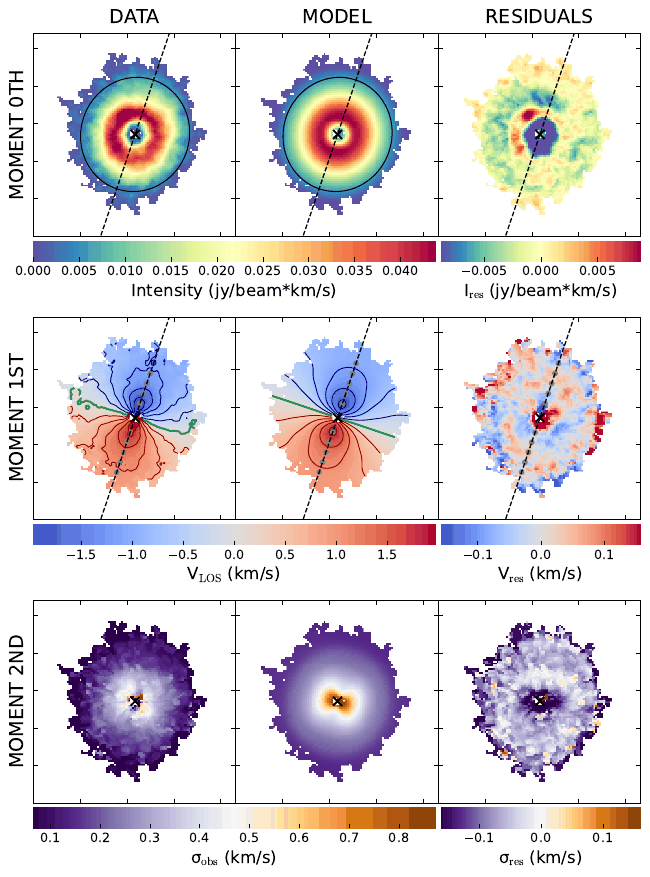
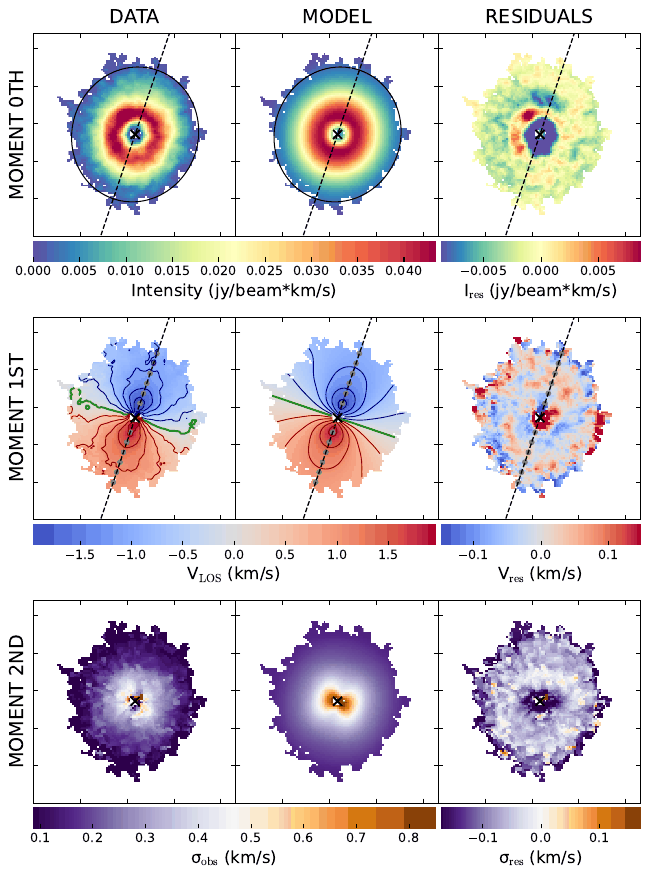
HD 142527 example: six rings, and the mass of the central stars
RADII out to 2.90 arcsec (a sixth ring): the page, the figures and the run time (52 minutes on 16
cores) from the new run. New section "The mass of the central stars": M = V^2 R / G from the
posterior samples at the Gaia distance (159.3 pc), 3.37 Msun and M sin^2 i = 0.471 Msun, against
the 2.1-2.4 Msun of the stars at an inclination of 26-28 deg. The snippet is also in the notebook.

diff --git a/docs/examples/hd142527.md b/docs/examples/hd142527.md
@@ -41,7 +41,7 @@ BBarolo -p HD142527_3DFIT_BAY.par
 ```python
 from bbarolo import FitMod3D
 
-f = FitMod3D("HD142527_13CO.fits", method="bayesian", radii=[0.65, 1.10, 1.55, 2.00, 2.45])
+f = FitMod3D("HD142527_13CO.fits", method="bayesian", radii=[0.65, 1.10, 1.55, 2.00, 2.45, 2.90])
 
 # Parameters can be set or changed after the constructor: update() returns the task
 f.update(specres=0.425,
@@ -64,20 +64,20 @@ res.write()                 # the files of the command line, in output/hd142527/
 :::
 ::::
 
-On our server, with 16 cores (16 processes for the sampler), the run takes **41 minutes**: 40.5 minutes of
-sampling, with 393 000 likelihoods of a cube of 124 000 voxels (the mask dilated by one beam). The time grows with
-the number of free parameters (18 here) and of voxels. The sampler is random, so the numbers below change slightly
+On our server, with 16 cores (16 processes for the sampler), the run takes **52 minutes**: 51.7 minutes of
+sampling, with 457 000 likelihoods of a cube of 124 000 voxels (the mask dilated by one beam). The time grows with
+the number of free parameters (20 here) and of voxels. The sampler is random, so the numbers below change slightly
 from run to run.
 
 ## The setup
 
-- **Rings.** {ref}`RADII <par-3dfit-radii>` gives five rings from 0.65 to 2.45 arcsec, 0.45 arcsec apart (about
+- **Rings.** {ref}`RADII <par-3dfit-radii>` gives six rings from 0.65 to 2.90 arcsec, 0.45 arcsec apart (about
   one beam). Nothing else about the rings is given: the centre (pixel 63.2, 63.5), the systemic velocity
   (3.7 km/s), the inclination (30°) and the position angle (162°) are first estimated from the data, and are the
   starting point and the centre of the default priors.
 - **Free parameters.** VROT and VDISP in each ring; one position angle, inclination, centre, systemic velocity
   and scale height for the whole disk (`_SINGLE`); the outer edge of the gas (`RADMAX`) and a fractional error of
-  the model (`FRACERR`): 18 parameters ({ref}`FREE <par-3dfit-free>`).
+  the model (`FRACERR`): 20 parameters ({ref}`FREE <par-3dfit-free>`).
 - **Thickness.** The CO emission of a protoplanetary disk comes from layers above and below the midplane, which
   flare outwards. The model of BBarolo is a layer symmetric about the plane, with a constant scale height: Z0 free
   (between 0 and one beam, the default prior) lets it be thick, as an approximation of the emitting surfaces.
@@ -95,30 +95,30 @@ from run to run.
 
 | Parameter | Median and 68% interval |
 |---|---|
-| VROT, 0.65 to 2.45 arcsec | 6.17 (−0.29, +0.35), 4.91 (−0.23, +0.28), 3.78 (−0.18, +0.22), 3.51 (−0.17, +0.20), 3.02 (−0.15, +0.18) km/s |
-| VDISP, 0.65 to 2.45 arcsec | 0.40, 0.27, 0.22, 0.21, 0.14 km/s (± 0.01–0.03) |
-| INC | 19.1° (−1.1, +1.0) |
+| VROT, 0.65 to 2.90 arcsec | 5.45 (−0.19, +0.22), 4.31 (−0.15, +0.17), 3.36 (−0.12, +0.13), 3.05 (−0.11, +0.13), 2.73 (−0.10, +0.12), 2.55 (−0.10, +0.12) km/s |
+| VDISP, 0.65 to 2.90 arcsec | 0.39, 0.27, 0.23, 0.19, 0.17, 0.15 km/s (± 0.01–0.03) |
+| INC | 21.9° (−0.9, +0.8) |
 | PA | 161.3° ± 0.2° |
-| VSYS | 3.737 ± 0.003 km/s |
-| Z0 | 0.14 (−0.05, +0.06) arcsec |
-| RADMAX | 2.674 arcsec, at the upper limit of its prior |
-| FRACERR | 0.18 ± 0.01 |
+| VSYS | 3.736 ± 0.003 km/s |
+| Z0 | 0.09 (−0.05, +0.06) arcsec |
+| RADMAX | 3.120 arcsec, at the upper limit of its prior |
+| FRACERR | 0.17 ± 0.01 |
 
-The rotation velocity falls with radius as $R^{-1/2}$ within the errors (6.17 km/s × (0.65/2.45)$^{1/2}$ = 3.18 km/s,
-against 3.02 measured): the Keplerian rotation of a disk around a central mass. The dispersion, 0.1 to 0.4 km/s,
-is a few channels at most. The reduced χ² is 1.63 without the model error and 1.20 with it.
+The rotation velocity falls with radius as $R^{-1/2}$ within the errors (5.45 km/s × (0.65/2.90)$^{1/2}$ = 2.58 km/s,
+against 2.55 measured): the Keplerian rotation of a disk around a central mass (see
+[below](#the-mass-of-the-central-stars)). The dispersion, 0.15 to 0.4 km/s, is a few channels at most. The reduced
+χ² is 1.51 without the model error and 1.10 with it.
 
 At this inclination the data measure the projected velocity $V_\mathrm{rot}\sin i$ much better than $V_\mathrm{rot}$:
-VROT of every ring is anti-correlated with INC (correlation coefficient −0.97, the narrow diagonal bands of the
-corner plot), and $V_\mathrm{rot}\sin i$ is 2.02 ± 0.03 km/s in the first ring, an error of about 1%, against 5% for
-VROT. The rotation velocities, and a dynamical mass from them, are only as good as the inclination, here
+VROT of every ring is anti-correlated with INC (correlation coefficients −0.86 to −0.97, the narrow diagonal bands
+of the corner plot), and $V_\mathrm{rot}\sin i$ is 2.04 ± 0.03 km/s in the first ring, an error of about 1%, against
+4% for VROT. The rotation velocities, and a dynamical mass from them, are only as good as the inclination, here
 constrained by the shape of the disk in a model with a single thick layer.
 
-RADMAX is at the upper limit of its prior, the outer edge of the last ring: the emission extends beyond 2.67 arcsec
-(to about 3 arcsec in the position–velocity diagram), so the edge of the gas disk is not measured; to measure it, add
-rings beyond. In the centre, the total intensity of the data has a hole, the cavity of the disk, which the model
-reproduces only in part: the first ring is at 0.65 arcsec, and the residuals are negative at the edge of the
-cavity, where the model has more emission than the data.
+RADMAX is at the upper limit of its prior, the outer edge of the last ring (3.125 arcsec); the emission reaches
+about 3 arcsec in the position–velocity diagram. In the centre, the total intensity of the data has a hole, the
+cavity of the disk, which the model reproduces only in part: the first ring is at 0.65 arcsec, and the residuals are
+negative at the edge of the cavity, where the model has more emission than the data.
 
 ```{figure} /figures/examples/hd142527_parameters.png
 :alt: Rotation velocity, dispersion, geometry and surface density of the rings of HD 142527
@@ -159,9 +159,44 @@ Channel maps of the data (blue) and of the model (red) (`_chanmaps_none.pdf`).
 ```{figure} /figures/examples/hd142527_corner.png
 :alt: Corner plot of the posterior of the fit of HD 142527
 
-The corner plot of the posterior (`_corner.pdf`): the one- and two-dimensional marginal distributions of the 18
+The corner plot of the posterior (`_corner.pdf`): the one- and two-dimensional marginal distributions of the 20
 free parameters, with the 16th, 50th and 84th percentiles.
 ```
+
+## The mass of the central stars
+
+In a Keplerian disk the rotation velocity at radius $R$ is $V_\mathrm{rot} = \sqrt{GM/R}$, where $M$ is the mass
+inside the ring, as if it were a point at the centre: here the two stars in the cavity, HD 142527 A
+(2.0 ± 0.3 M☉, Mendigutía et al. 2014) and its M-dwarf companion HD 142527 B (0.1 to 0.4 M☉, Lacour et al. 2016).
+At the distance of HD 142527, 159.3 ± 0.7 pc (Gaia EDR3), one arcsec is 159.3 au. Each sample of the posterior
+gives the mass $V_\mathrm{rot}^2 R/G$ in every ring; their mean over the rings is the mass of that sample, and the
+samples give the posterior of the mass. After the fit of the Python tab:
+
+```python
+import numpy as np
+
+G = 887.13                                  # the gravitational constant in (km/s)^2 au / Msun
+R = np.array([0.65, 1.10, 1.55, 2.00, 2.45, 2.90]) * 159.3   # the radii in au, at 159.3 pc
+s, names = res.fitter.samples_equal, res.fitter.freepar_names   # the posterior samples (equal weights)
+vrot = s[:, [names.index(f"vrot{i + 1}") for i in range(len(R))]]
+inc = np.radians(s[:, names.index("inc")])
+M = (vrot ** 2 * R).mean(axis=1) / G        # the mass of each sample (Msun)
+print(np.percentile(M, [16, 50, 84]))                       # M
+print(np.percentile(M * np.sin(inc) ** 2, [16, 50, 84]))    # M sin^2 i
+```
+
+The mass is $M$ = 3.37 (−0.22, +0.27) M☉, and $M\sin^2 i$ = 0.471 ± 0.004 M☉. Ring by ring, $M\sin^2 i$ goes from
+0.44 to 0.51 M☉, more than its errors (2 to 4%): the rotation is close to Keplerian, but not exactly (the logarithmic
+slope of the rotation curve is −0.52 ± 0.01, against −0.5), and the mean over the rings averages the differences.
+
+The data measure $M\sin^2 i$ to 1%, and $M$ only as well as the inclination: $M \propto 1/\sin^2 i$, and nearly
+all the error of $M$ is that of INC. 3.4 M☉ is more than the mass of the two stars, about 2.1 to 2.4 M☉, and than
+the 2.4 M☉ of Boehler et al. (2017), from the Keplerian rotation of ¹³CO at an inclination of about 27° (and a
+distance of 156 pc). The difference is in the inclination: with $M\sin^2 i$ = 0.471 M☉, these masses need an
+inclination of 26° to 28°, against the 21.9° ± 0.9° of the fit, measured from the shape of the disk with a single
+thick layer symmetric about the midplane, an approximation of the two flared surfaces that emit the ¹³CO. To get
+the mass at another inclination, measured otherwise (for instance from the shape of the dust ring), fix INC or give
+it a narrow prior. The mass is also proportional to the distance (an error of 0.4% here).
 
 ## References
 
@@ -169,4 +204,10 @@ free parameters, with the 16th, 50th and 84th percentiles.
   [CO gas inside the protoplanetary disk cavity in HD 142527: disk structure from ALMA](https://ui.adsabs.harvard.edu/abs/2015ApJ...798...85P).
 - Boehler, Y., et al. 2017, ApJ, 840, 60:
   [A close-up view of the young circumbinary disk HD 142527](https://ui.adsabs.harvard.edu/abs/2017ApJ...840...60B).
+- Mendigutía, I., et al. 2014, ApJ, 790, 21:
+  [Stellar parameters and accretion rate of the transition disk star HD 142527 from X-shooter](https://ui.adsabs.harvard.edu/abs/2014ApJ...790...21M).
+- Lacour, S., et al. 2016, A&A, 590, A90:
+  [An M-dwarf star in the transition disk of Herbig HD 142527: physical parameters and orbital elements](https://ui.adsabs.harvard.edu/abs/2016A%26A...590A..90L).
+- Gaia Collaboration, Brown, A. G. A., et al. 2021, A&A, 649, A1:
+  [Gaia Early Data Release 3: summary of the contents and survey properties](https://ui.adsabs.harvard.edu/abs/2021A%26A...649A...1G).
 - {doc}`../tasks/3dfit/likelihood`: the likelihood, the priors, RADMAX, FRACERR and the samplers.

diff --git a/docs/examples/index.md b/docs/examples/index.md
@@ -19,7 +19,7 @@ diagrams and the channel maps of the data and of the model. The notebook
 | {doc}`ngc891` | HI, WSRT, edge-on spiral with a lagging halo | 3DFIT GLOBAL, thin disk and thick layer with a lag | 19 min |
 | {doc}`u3-25160` | Hα, KMOS, star-forming galaxy at z = 0.9 | 3DFIT BAYESIAN | 1 min 42 s |
 | {doc}`aless73` | [CII], ALMA, starburst galaxy at z = 4.8 | 3DFIT BAYESIAN, prior on the inclination | 8 min 8 s |
-| {doc}`hd142527` | ¹³CO, ALMA, protoplanetary disk | 3DFIT BAYESIAN, geometry and thickness free | 41 min |
+| {doc}`hd142527` | ¹³CO, ALMA, protoplanetary disk | 3DFIT BAYESIAN, geometry and thickness free | 52 min |
 | {doc}`2masxj1022` | Hα + [NII], SALT long slit, massive spiral | SLITFIT GLOBAL | 23 s |
 | {doc}`circinus` | [OIII], MUSE, ionised nuclear wind of a Seyfert galaxy | WINDFIT GLOBAL with a mask, MoKA-3D compared | 16 min |
 
